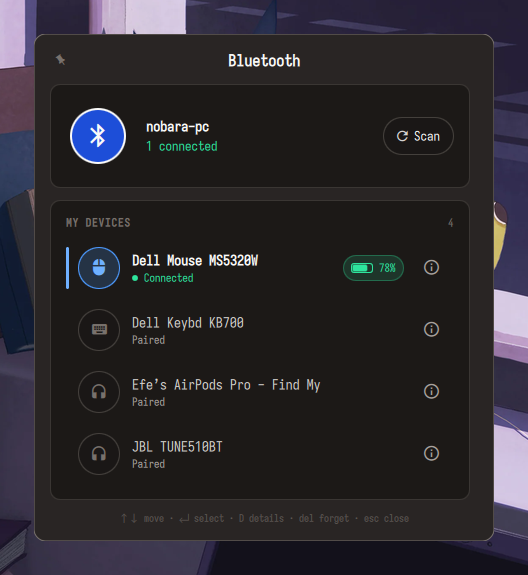
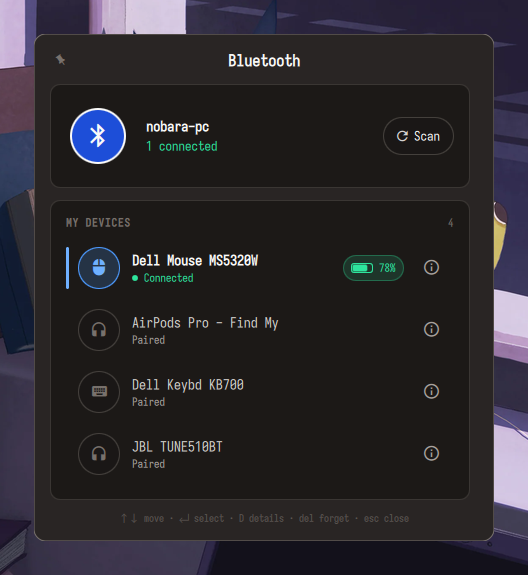
fix(docs): retake clipboard and bluetooth shots without personal content
gallery-shots.sh now swaps the clipboard history for demo entries and strips
the owner prefix from Bluetooth device names while shooting, then restores both.

diff --git a/scripts/README.md b/scripts/README.md
@@ -59,7 +59,7 @@ All notification calls go through `lib/notify.sh`. Daemons use `set -uo pipefail
 |---|---|
 | `doctor.sh` | Read-only health check: required commands, user units, executable bits, dotfiles-manager symlinks, battery timer. Exit 1 on failure. |
 | `screenshot-window.sh` | Screenshot of the active window (`hyprctl activewindow -j`), same save/copy/notify as `screenshot.sh`. |
-| `gallery-shots.sh` | Retakes the README gallery pictures: switches to an empty workspace, opens each popup via its Quickshell global shortcut (and fires a test notification for the toast), then crops to the area that differs from a baseline capture. `gallery-shots.sh [name...]` retakes only named shots, `--list` prints them. Restores your workspace. Review the PNGs before committing: popups show real clipboard history and device names. |
+| `gallery-shots.sh` | Retakes the README gallery pictures: switches to an empty workspace, opens each popup via its Quickshell global shortcut (and fires a test notification for the toast), then crops to the area that differs from a baseline capture. `gallery-shots.sh [name...]` retakes only named shots, `--list` prints them. Restores your workspace. Swaps the clipboard history for demo entries and strips the owner prefix from Bluetooth names while shooting, then restores both. Skips `desktop.png`, `bar.png` and `wallpaper.png`. |
 | `night.sh` | `toggle\|on\|off\|status` night light via `hyprsunset`; `NIGHT_TEMPERATURE` in `util.env`. |
 | `scratchpad.sh` | Toggle a drop-down kitty on the `special:scratchpad` workspace. |
 | `idle-inhibit-toggle.sh` | Manual idle inhibit toggle; PID in `$XDG_RUNTIME_DIR/idle-inhibit.pid`. |
